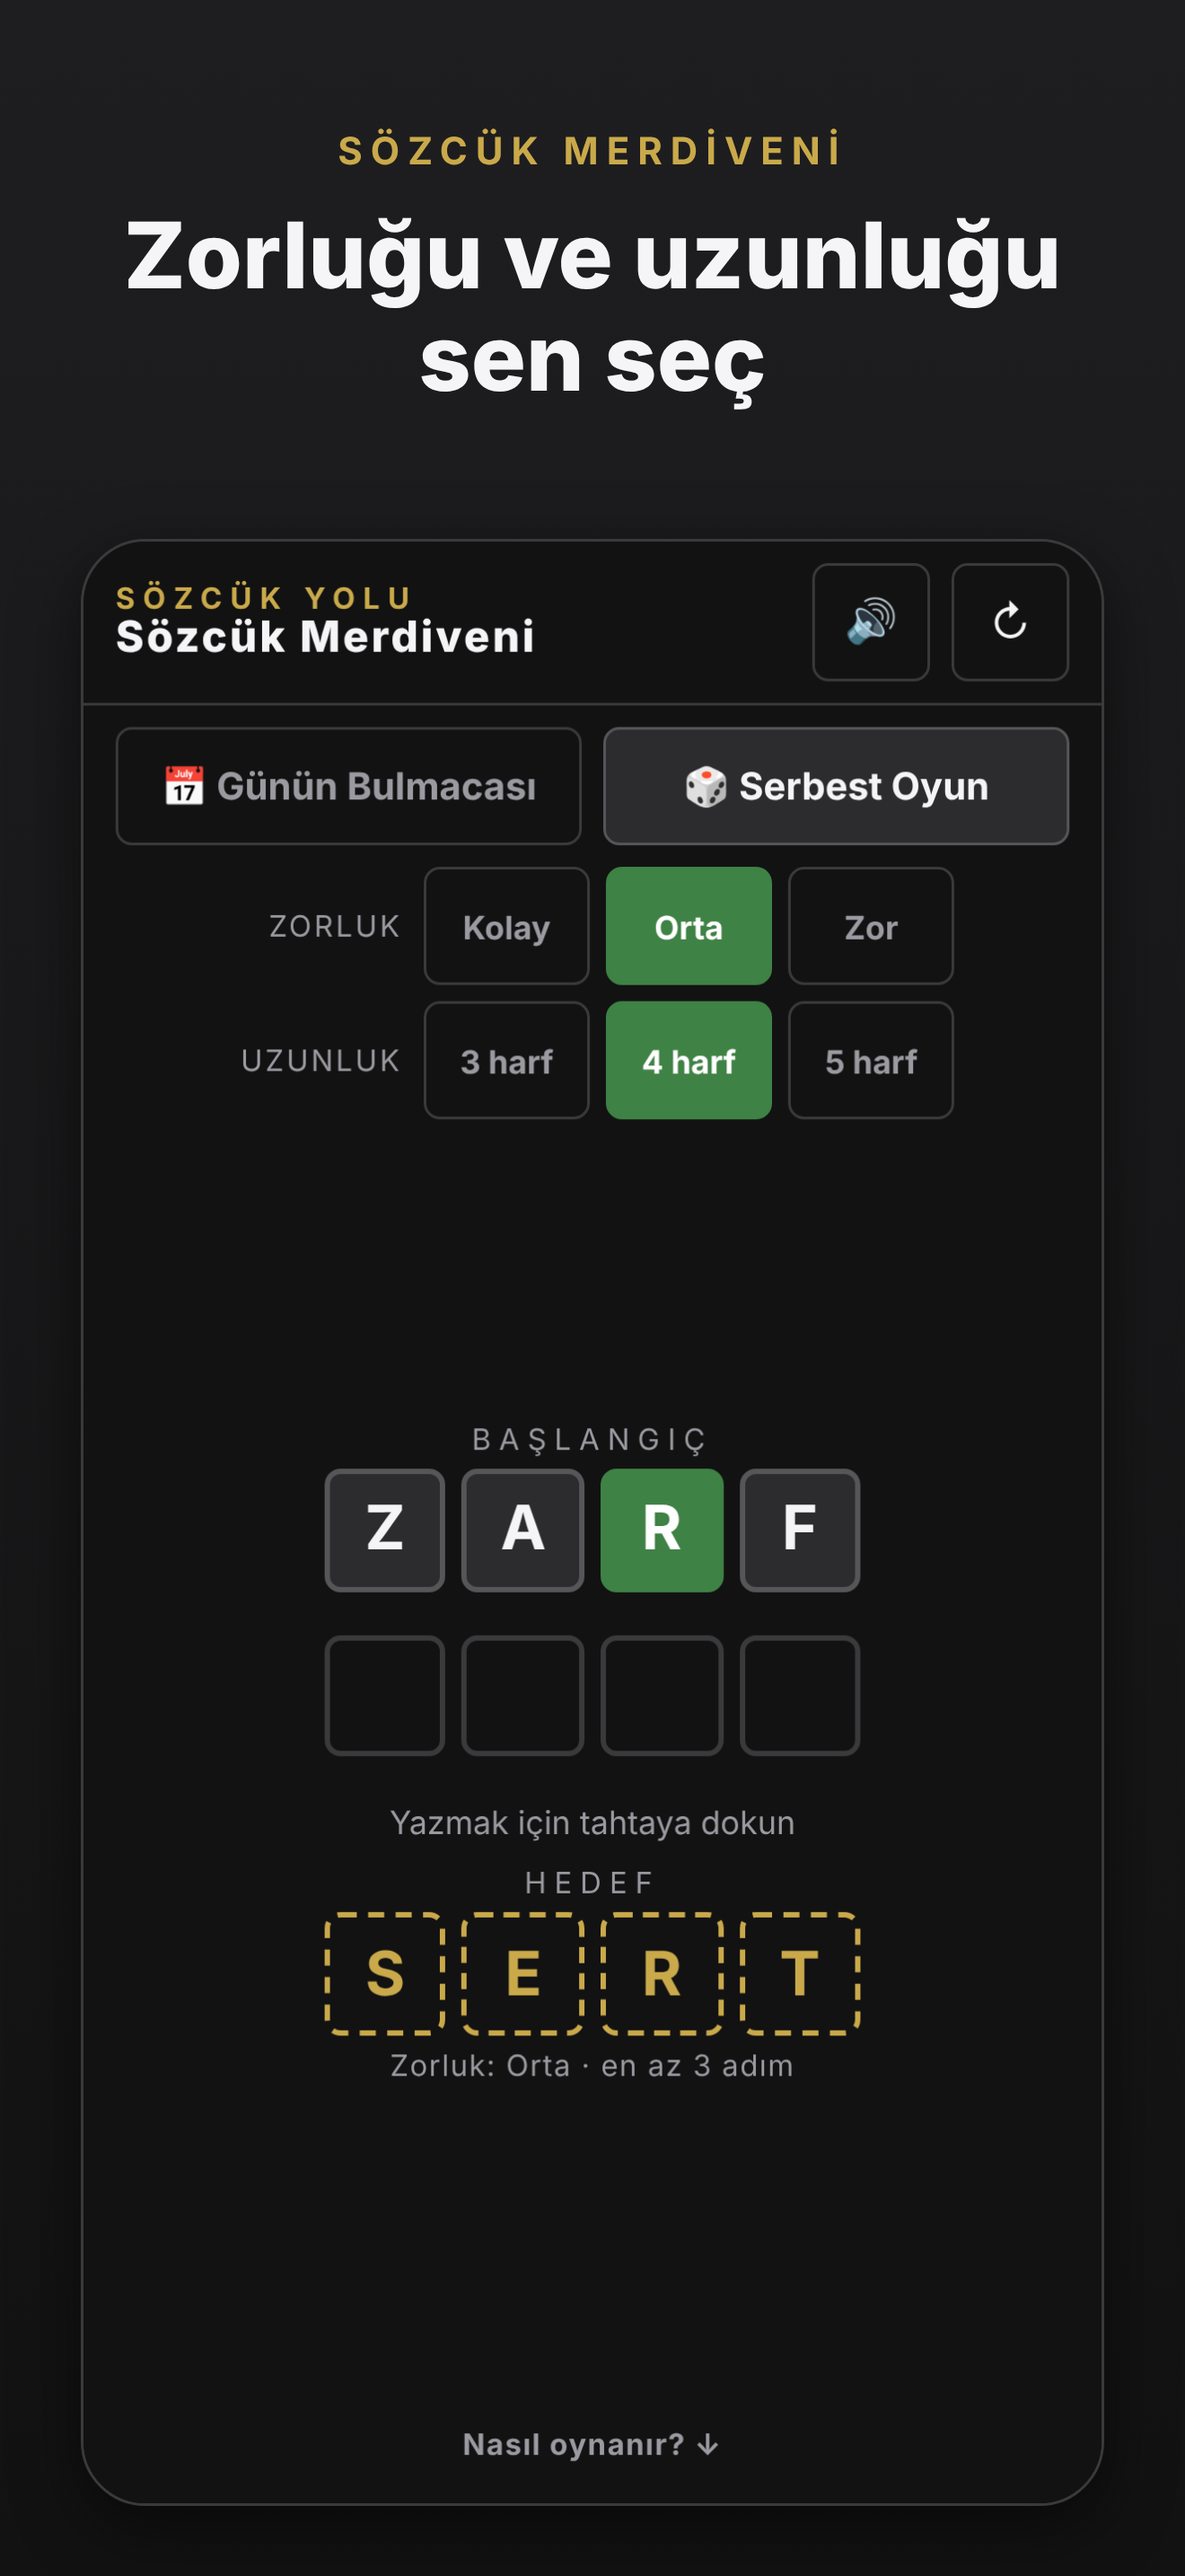
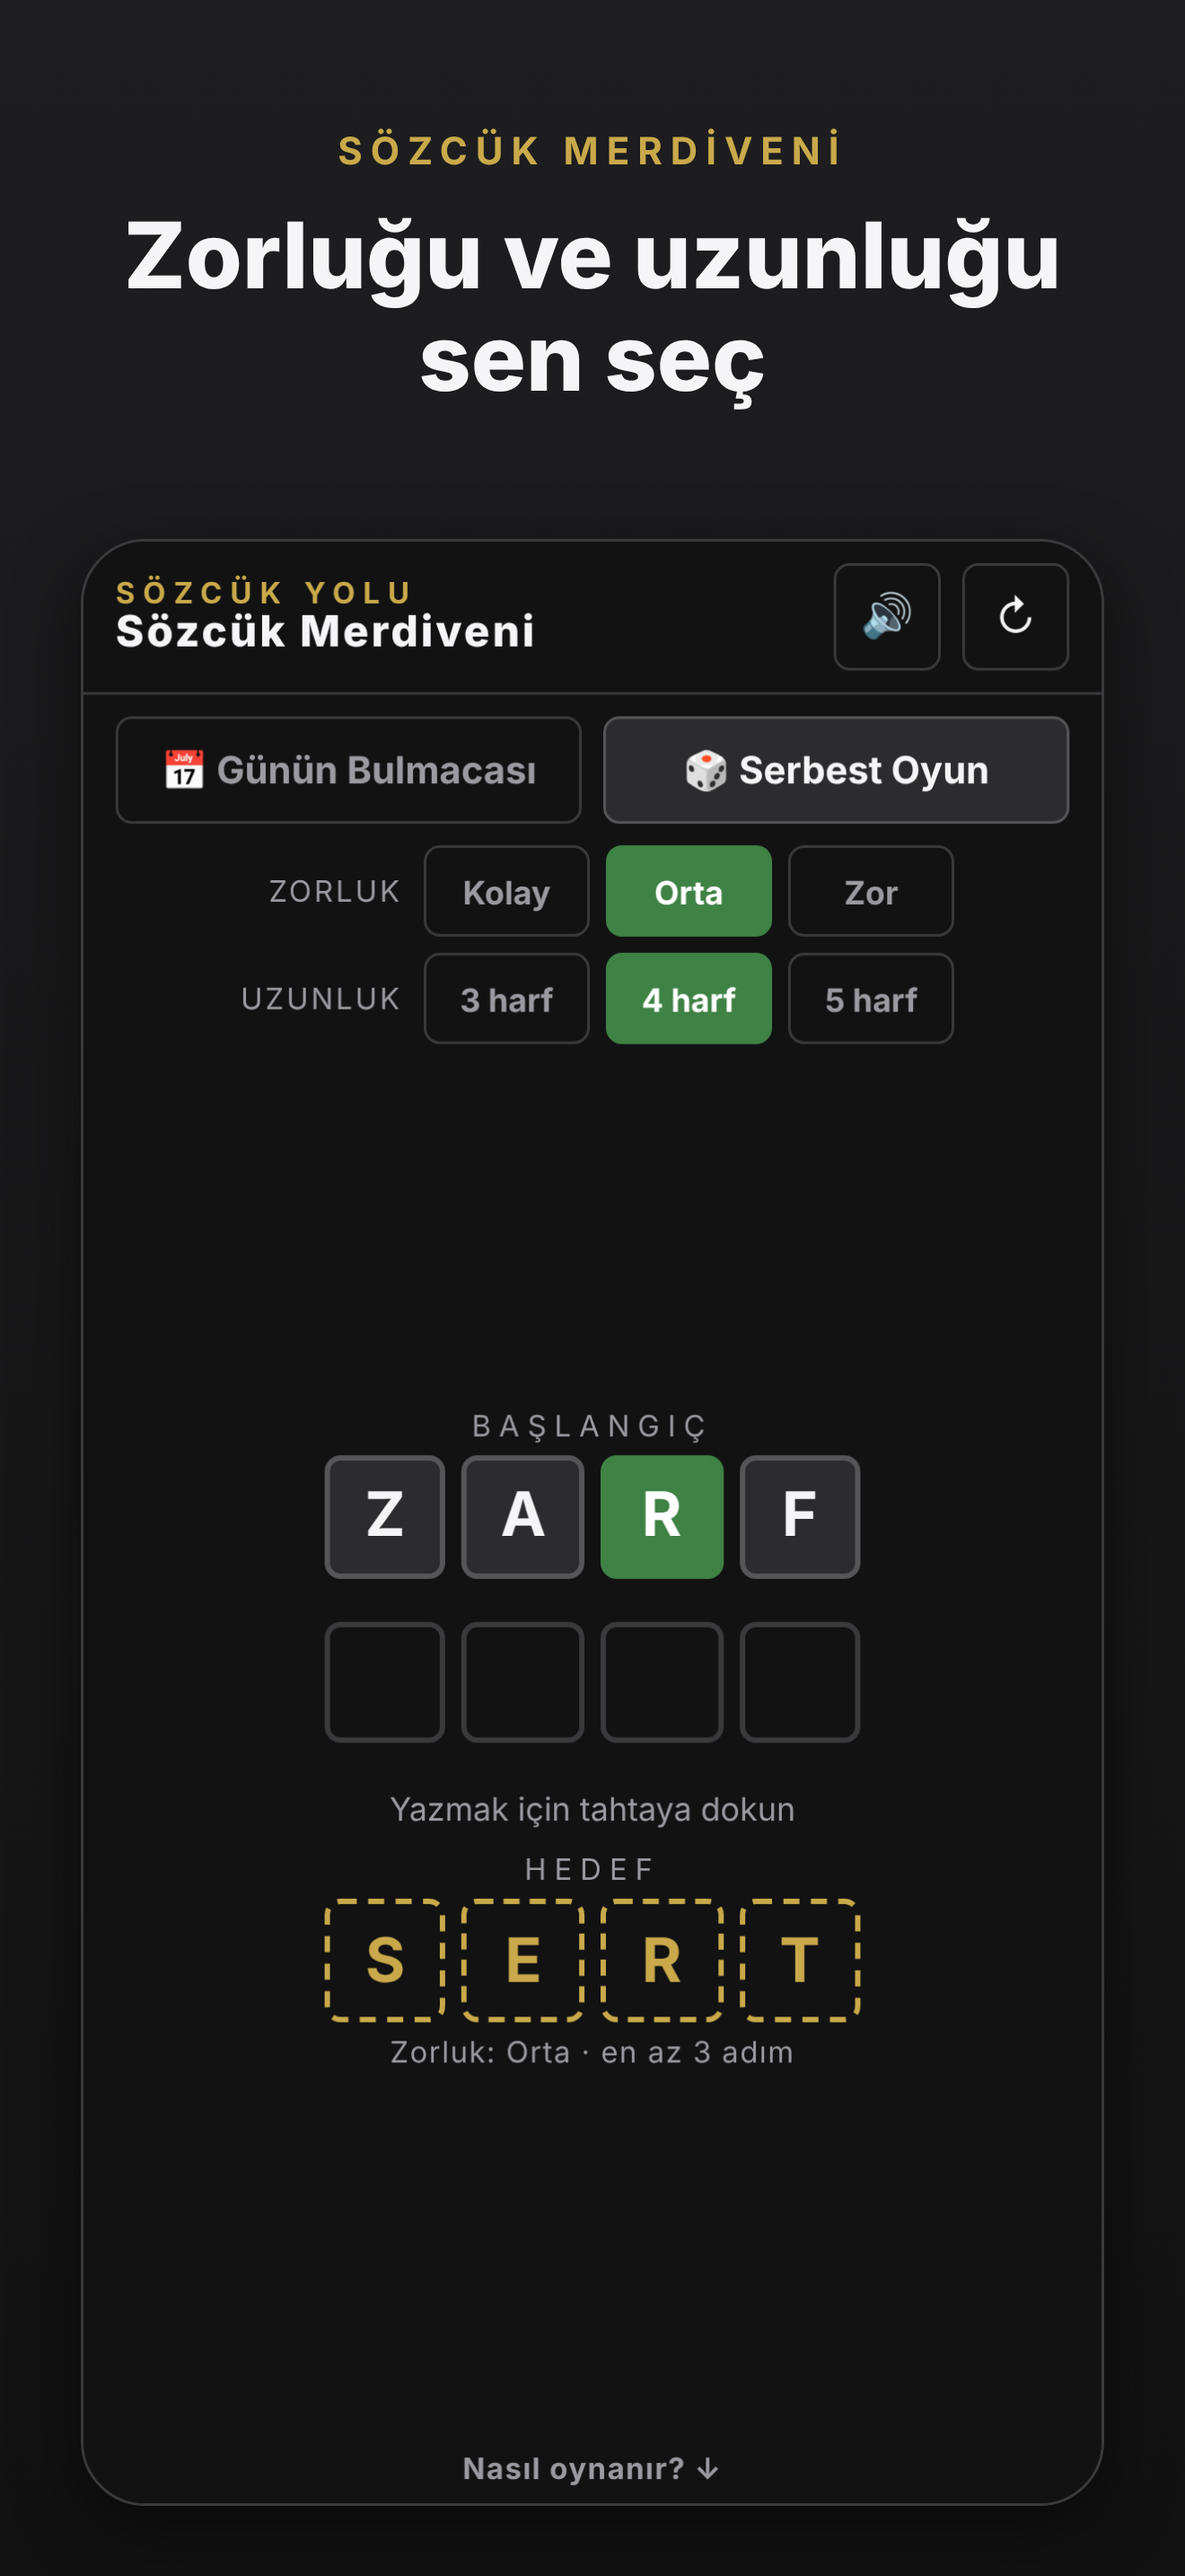
Küçük telefonda oyun alanı geri geldi; dokunma alanı 44 px kalır
44 px'e büyüyen düğmeler 100dvh sabit kabukta oyun alanından yiyordu
(360×560 serbest oyunda HEDEF satırı ekrandan çıkıyordu). Görünür boylar
main'deki haline döndü (40/34/28 px); dokunma alanı yerleşimi büyütmeyen
görünmez ::before katmanıyla 44 px'e tamamlanıyor, komşuyla örtüşmeyecek
yöne uzuyor.

test_tarayici.js 10. adım: 360×560, 375×548, 320×460 dokunmatikte HEDEF
ve giriş satırı ilk ekranda; denetimlerin gerçek dokunma alanı 44×44.
Mağaza görselleri yeni düzenle yeniden üretildi.

Claude-Session: https://claude.ai/code/session_01C8YUUGzBwuF5YnZnuwjbBR

diff --git a/tools/test_tarayici.js b/tools/test_tarayici.js
@@ -17,6 +17,7 @@
  *   7. Serbest oyun seçilen uzunlukta bulmaca veriyor
  *   8. Dokunmatikte ekran klavyesi gizli, cihaz klavyesi çalışıyor
  *   9. TRT gece yarısında bulmaca kendiliğinden değişiyor
+ *  10. Küçük telefonda HEDEF/giriş satırı ilk ekranda; dokunma alanları ≥ 44 px
  *
  * Dış ağ (reklam, analitik) engellenir; test internetsiz de aynı sonucu verir.
  *
@@ -234,6 +235,85 @@ async function main() {
     denetle(sonraki === `${beklenenSonra[0]}→${beklenenSonra[1]}`,
             `gece yarısından sonra ${sonraki}, beklenen ${beklenenSonra[0]}→${beklenenSonra[1]}`);
     denetle(onceki !== sonraki, "gece yarısında bulmaca değişmedi");
+
+    /* Küçük telefon: kabuk 100dvh sabit, üstteki her piksel oyun alanından
+       gider. Beklentiler main'deki düzenin sağladığı kadardır (ölçüldü). */
+    console.log("10. Küçük telefonda ilk görünüm ve dokunma alanı");
+    const t = new Date(Date.now() + TRT_MS);
+    const oglen = Date.UTC(t.getUTCFullYear(), t.getUTCMonth(), t.getUTCDate(), 12) - TRT_MS;
+    let kisaGun = oglen;                     // önümüzdeki en az adımlı günlük bulmaca
+    for (let g = 1; g < 400; g++) {
+      if (beklenenBulmaca(oglen + g * 86400000)[2] < beklenenBulmaca(kisaGun)[2]) kisaGun = oglen + g * 86400000;
+    }
+    async function kucukEkran(en, boy, cozulmus) {
+      const b = await tarayici.newContext({ viewport: { width: en, height: boy }, hasTouch: true, isMobile: true });
+      await disAgiKapat(b);
+      const s = await b.newPage();
+      s.on("pageerror", (e) => sayfaHatalari.push(e.message));
+      await s.clock.install({ time: new Date(kisaGun) });
+      await s.goto(ADRES);
+      await oyunHazir(s);
+      if (cozulmus) {
+        const [kb, kh] = beklenenBulmaca(kisaGun);
+        await s.tap("#game");
+        for (const k of enKisaYol(kb, kh) || []) {
+          await s.keyboard.type(k.toLocaleLowerCase("tr"));
+          await s.keyboard.press("Enter");
+        }
+        await s.reload();                    // çözülmüş bulmacaya geri dönen oyuncunun ilk ekranı
+        await oyunHazir(s);
+      } else {
+        await s.tap("#tabFree");
+      }
+      // Satır, oyun alanının ve ekranın görünen kısmında mı (kaydırmadan)
+      const gorunen = await s.evaluate(() => {
+        const g = document.getElementById("game").getBoundingClientRect();
+        const icinde = (id) => {
+          const r = document.getElementById(id).getBoundingClientRect();
+          return r.height > 0 && r.top >= Math.max(0, g.top) - 0.5 && r.bottom <= Math.min(innerHeight, g.bottom) + 0.5;
+        };
+        return { bitti: oyun.over, hedef: icinde("targetWord"), giris: icinde("inputRow") };
+      });
+      return { b, s, gorunen };
+    }
+    // Gerçek dokunma alanı: merkezden dört yöne elementFromPoint ile yürünür.
+    // Komşu denetimin örttüğü kısım sayılmaz; görünmez genişletme de ölçülür.
+    const dokunmaAlani = (s, secici) => s.evaluate((sec) => [...document.querySelectorAll(sec)].map((el) => {
+      el.scrollIntoView({ block: "center" });
+      const r = el.getBoundingClientRect(), cx = r.left + r.width / 2, cy = r.top + r.height / 2;
+      const vurur = (x, y) => { const e = document.elementFromPoint(x, y); return !!e && el.contains(e); };
+      const uzunluk = (nokta) => {
+        let n = 1;
+        for (const yon of [-1, 1]) for (let k = 1; k < 60 && vurur(...nokta(yon * k)); k++) n++;
+        return n;
+      };
+      return { ad: (el.textContent.trim() || el.getAttribute("aria-label")).slice(0, 20),
+               en: uzunluk((k) => [cx + k, cy]), boy: uzunluk((k) => [cx, cy + k]) };
+    }), secici);
+
+    const durumlar = [
+      [360, 560, false, ["hedef", "giris"]],
+      [375, 548, false, ["giris"]],
+      [320, 460, false, ["giris"]],
+      [360, 560, true, ["hedef"]],
+      [375, 548, true, ["hedef"]],
+    ];
+    for (const [en, boy, cozulmus, beklenen] of durumlar) {
+      const { b, s, gorunen } = await kucukEkran(en, boy, cozulmus);
+      const ad = `${en}×${boy} ${cozulmus ? "çözülmüş günlük" : "serbest oyun"}`;
+      denetle(gorunen.bitti === cozulmus, `${ad}: oyun durumu beklenen değil`);
+      for (const satir of beklenen) {
+        denetle(gorunen[satir], `${ad}: ${satir === "hedef" ? "HEDEF" : "giriş"} satırı ilk ekranda görünmüyor`);
+      }
+      if (en === 360) {
+        const secici = cozulmus ? ".mini-btn"
+          : ".icon-btn, .mode-tab, .pick-btn, .scroll-cue, .site-footer a";
+        for (const a of await dokunmaAlani(s, secici)) {
+          denetle(a.en >= 44 && a.boy >= 44, `${ad}: '${a.ad}' dokunma alanı ${a.en}×${a.boy}, en az 44×44 olmalı`);
+        }
+      }
+      await b.close();
+    }
 
     denetle(sayfaHatalari.length === 0, "sayfada yakalanmamış hata: " + sayfaHatalari.join(" | "));
   } finally {

diff --git a/style.css b/style.css
@@ -64,7 +64,10 @@
   --space-14: 56px;
 
   /* Ölçü */
-  --tap-min:    44px;    /* Dokunma hedefinin en küçük kenarı */
+  --tap-min:    44px;    /* Dokunma alanının en küçük kenarı (bkz. "Dokunma alanı") */
+  --ctl-md:     40px;    /* Görünür boy: ikon düğmesi, mod sekmesi */
+  --ctl-sm:     34px;    /* Görünür boy: zorluk / uzunluk düğmesi */
+  --ctl-xs:     28px;    /* Görünür boy: küçük düğme (Sonucu paylaş) */
   --btn-height: 48px;
   --key-height: 52px;
   --tile-size:  clamp(42px, 12vw, 58px);
@@ -162,8 +165,8 @@ body {
 .header-actions { display: flex; gap: var(--space-2); }
 
 .icon-btn {
-  width: var(--tap-min);
-  height: var(--tap-min);
+  width: var(--ctl-md);
+  height: var(--ctl-md);
   background: none;
   border: 1px solid var(--border);
   border-radius: var(--radius);
@@ -173,6 +176,38 @@ body {
   transition: background var(--dur-base);
 }
 .icon-btn:active { background: var(--surface-2); }
+
+/* ---------- Dokunma alanı ----------
+   Kabuk 100dvh sabit: küçük telefonda her piksel oyun alanından gider. Bu
+   yüzden bazı denetimler 44 px'ten kısa GÖRÜNÜR, dokunma alanı ise
+   yerleşimi büyütmeyen görünmez bir katmanla --tap-min'e tamamlanır.
+   Katman, komşu denetimle örtüşmeyecek yöne uzar (aralıklar buna göre).
+   tools/test_tarayici.js her denetimin gerçek dokunma alanını ölçer. */
+.icon-btn, .mode-tab, .pick-btn, .mini-btn, .scroll-cue { position: relative; }
+.icon-btn::before, .mode-tab::before, .pick-btn::before, .mini-btn::before, .scroll-cue::before {
+  content: "";
+  position: absolute;
+  left: 0;
+  right: 0;
+  /* Varsayılan: eksik boy üste ve alta eşit bölünür (% = kendi yüksekliği) */
+  top: calc((100% - var(--tap-min)) / 2);
+  bottom: calc((100% - var(--tap-min)) / 2);
+}
+/* 40×40: dört yana eşit */
+.icon-btn::before { left: calc((100% - var(--tap-min)) / 2); right: calc((100% - var(--tap-min)) / 2); }
+/* Sekme yalnızca yukarı uzar: altındaki satır kendi payını sekmenin dibine kadar alır */
+.mode-tab::before { top: calc(100% - var(--tap-min)); bottom: 0; }
+/* İki satır arasında yalnızca --space-1h var: üst satır yukarı, alt satır aşağı uzar */
+.setting-row:first-child .pick-btn::before {
+  top: calc(-1 * var(--space-2));
+  bottom: calc(100% - var(--tap-min) + var(--space-2));
+}
+.setting-row + .setting-row .pick-btn::before {
+  top: calc(-1 * var(--space-1));
+  bottom: calc(100% - var(--tap-min) + var(--space-1));
+}
+/* Kabuğun en altında: üstü reklam alanı, yalnızca aşağı uzar */
+.scroll-cue::before { top: 0; bottom: calc(100% - var(--tap-min)); }
 
 /* ---------- Mod sekmeleri (Günlük / Serbest) ---------- */
 .mode-tabs {
@@ -185,7 +220,7 @@ body {
 .mode-tab {
   flex: 1;
   max-width: 200px;
-  min-height: var(--tap-min);
+  min-height: var(--ctl-md);
   background: none;
   border: 1px solid var(--border);
   border-radius: var(--radius);
@@ -232,7 +267,7 @@ body {
 
 .pick-btn {
   min-width: 62px;
-  min-height: var(--tap-min);
+  min-height: var(--ctl-sm);
   background: none;
   border: 1px solid var(--border);
   border-radius: var(--radius);
@@ -279,7 +314,7 @@ body {
   background: var(--surface-2);
   color: var(--text);
   border-radius: var(--radius);
-  min-height: var(--tap-min);
+  min-height: var(--ctl-xs);
   padding: 0 var(--space-3);
   font-family: var(--font);
   font-size: var(--fs-xs);
@@ -633,10 +668,9 @@ body.page-body {
 
 /* ---------- Aşağı kaydırma ipucu (oyun kabuğunun en altı) ---------- */
 .scroll-cue {
-  display: flex;
-  align-items: center;
-  justify-content: center;
-  min-height: var(--tap-min);
+  display: block;
+  text-align: center;
+  padding: var(--space-1h) 0;
   font-size: var(--fs-2xs);
   font-weight: var(--fw-bold);
   letter-spacing: var(--track-sm);
